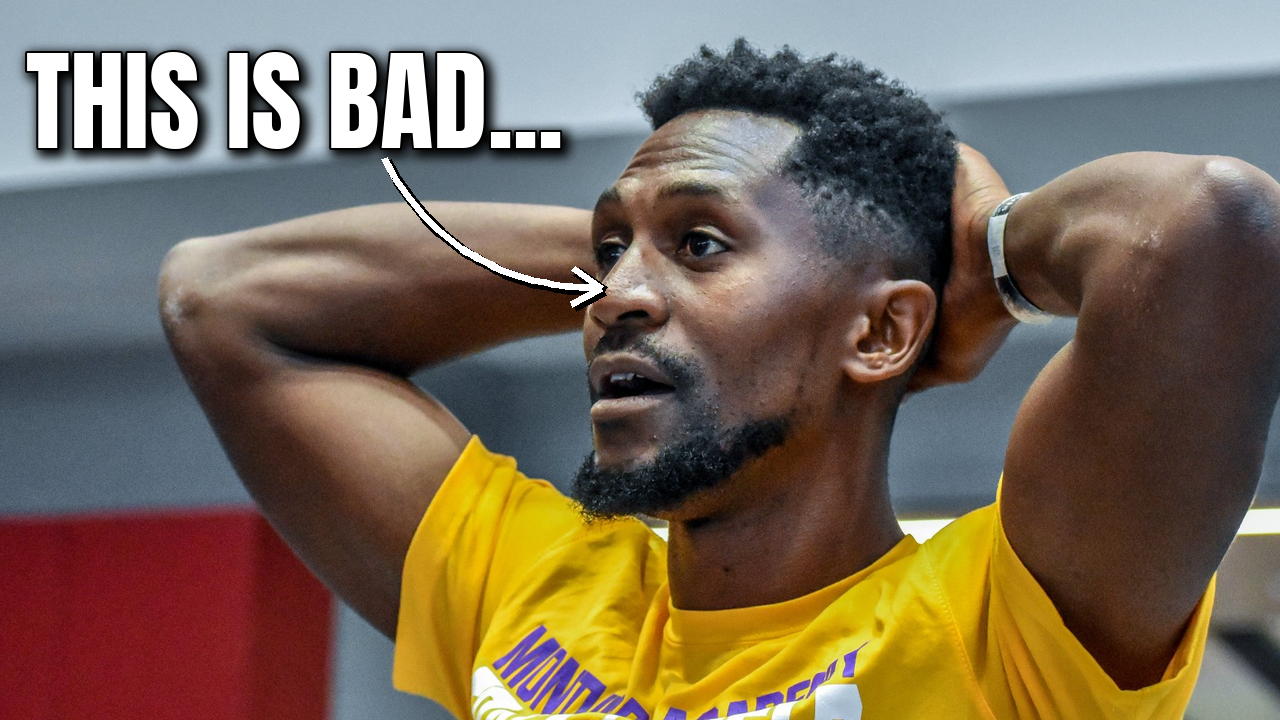
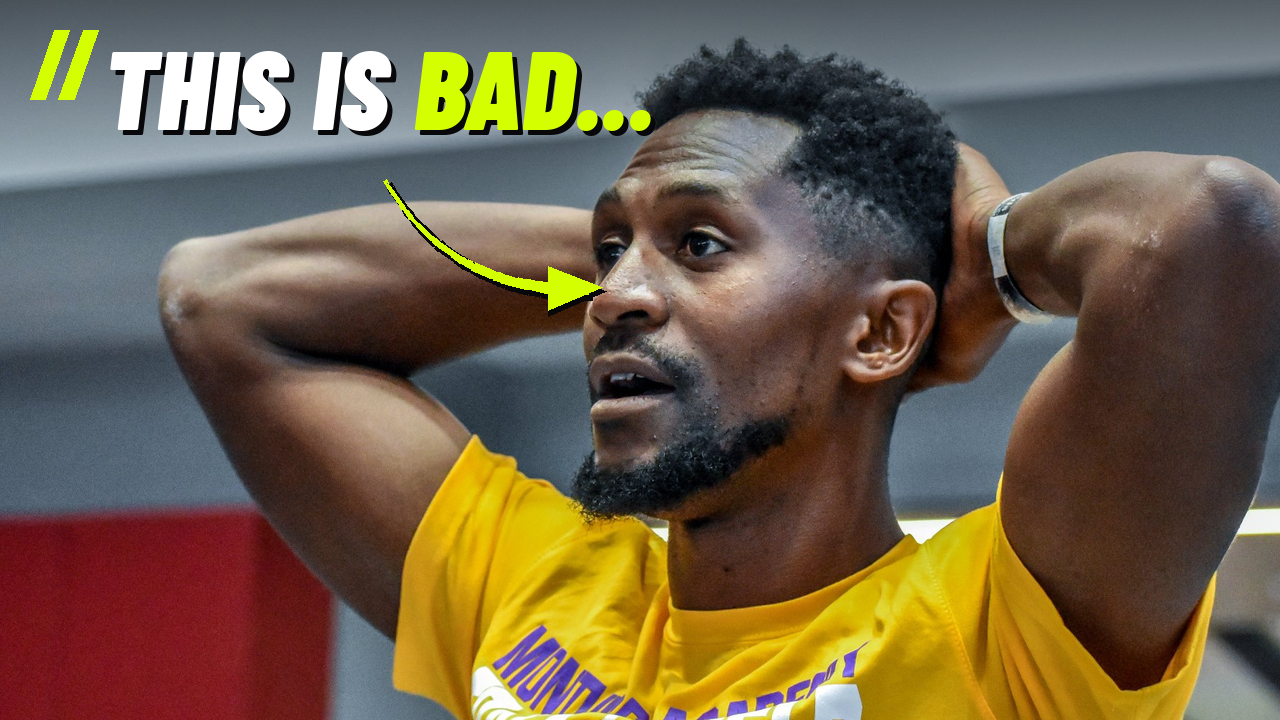
Add signature formats: creator structures with a unique house look; apply to video 002
Claude-Session: https://claude.ai/code/session_01FEcSZvJcptNLFfLb8uX2uA

Changed region(s): [[0.0, 0.0, 1.0, 0.4278]]

diff --git a/tools/signature_formats.py b/tools/signature_formats.py
@@ -1,0 +1,230 @@
+#!/usr/bin/env python3
+"""
+YOUR signature formats. Same proven structure as the benchmark creators, but your own look.
+
+Shared signature across all three (so viewers recognise you):
+  * Barlow Condensed Black Italic (slanted) for all big text, never Impact/Anton
+  * a hard, sharp black offset shadow (no blurry glow)
+  * ONE accent colour (lane lime), used only for the key word / pointer / marks
+  * a small lime "//" mark
+
+  situation  (structure from TRP)        short text top-left + one tapered lime arrow
+  statement  (structure from Final Leg)  huge stacked text beside the person, last word lime
+  report     (structure from Jumpman)    black news-caption boxes with a lime edge + "REPORTED" tag
+
+Text: "|" = new line, *word* = lime key word.
+Photos are only cropped/resized; faces pixelated only if you pass --hide.
+
+  python tools/signature_formats.py situation --photo p.jpg --text "THIS IS *BAD...*" --arrow 0.30,0.22,0.47,0.40
+  python tools/signature_formats.py statement --photo p.jpg --text "WHO'S|TO *BLAME?*" --side left
+  python tools/signature_formats.py report --photo p.jpg --headline "Coach accused of ..." --caption "Two athletes suspended."
+"""
+import argparse
+import math
+import os
+import re
+
+from PIL import Image, ImageDraw, ImageFont
+
+from make_thumbnail import load_cover
+
+HERE = os.path.dirname(os.path.abspath(__file__))
+SLANTED = os.path.join(HERE, "fonts", "BarlowCondensed-BlackItalic.ttf")
+UI = os.path.join(HERE, "fonts", "BarlowCondensed-Bold.ttf")
+SANS = "/usr/share/fonts/truetype/liberation/LiberationSans-Bold.ttf"
+if not os.path.exists(SANS):
+    SANS = UI
+W, H = 1280, 720
+WHITE, INK = (255, 255, 255), (8, 8, 10)
+LIME = (212, 255, 0)
+
+
+def words_of(line):
+    out = []
+    for tok in re.findall(r"\*[^*]+\*|\S+", line):
+        if tok.startswith("*") and tok.endswith("*"):
+            out += [(w, True) for w in tok[1:-1].split()]
+        else:
+            out.append((tok, False))
+    return out
+
+
+def plain(line):
+    return line.replace("*", "")
+
+
+def draw_line(canvas, x, y, line, font, accent, shadow):
+    d = ImageDraw.Draw(canvas)
+    space = int(font.size * 0.2)
+    for w, hl in words_of(line):
+        b = font.getbbox(w)
+        d.text((x - b[0] + shadow, y + shadow), w, font=font, fill=INK)
+        d.text((x - b[0], y), w, font=font, fill=accent if hl else WHITE)
+        x += (b[2] - b[0]) + space
+    return x
+
+
+def line_width(line, font):
+    space = int(font.size * 0.2)
+    ws = words_of(line)
+    return sum(font.getbbox(w)[2] - font.getbbox(w)[0] for w, _ in ws) + space * (len(ws) - 1)
+
+
+def fit_lines(lines, max_w, max_h, start=320, lh_ratio=0.98):
+    size = start
+    while size > 40:
+        f = ImageFont.truetype(SLANTED, size)
+        if max(line_width(l, f) for l in lines) <= max_w and int(size * lh_ratio) * len(lines) <= max_h:
+            return f
+        size -= 3
+    return ImageFont.truetype(SLANTED, 40)
+
+
+def slash_mark(canvas, x, y, size, accent):
+    """Signature '//' mark."""
+    d = ImageDraw.Draw(canvas)
+    w = size * 0.22
+    for k in range(2):
+        ox = x + k * size * 0.42
+        d.polygon([(ox + size * 0.35, y), (ox + size * 0.35 + w, y), (ox + w, y + size), (ox, y + size)],
+                  fill=accent)
+
+
+def tapered_arrow(canvas, x0, y0, x1, y1, accent, bend=0.3):
+    """Lime arrow that thickens toward the head: your take on the pointer."""
+    d = ImageDraw.Draw(canvas)
+    mx, my = (x0 + x1) / 2, (y0 + y1) / 2
+    cx, cy = mx - (y1 - y0) * bend, my + (x1 - x0) * bend
+    pts = [((1 - t) ** 2 * x0 + 2 * (1 - t) * t * cx + t ** 2 * x1,
+            (1 - t) ** 2 * y0 + 2 * (1 - t) * t * cy + t ** 2 * y1) for t in [i / 60 for i in range(61)]]
+    for col, extra, off in ((INK, 4, 4), (accent, 0, 0)):
+        for i in range(len(pts) - 1):
+            wdt = int(4 + 10 * (i / len(pts)) + extra)
+            d.line([(pts[i][0] + off, pts[i][1] + off), (pts[i + 1][0] + off, pts[i + 1][1] + off)],
+                   fill=col, width=wdt)
+        ex, ey = pts[-1]
+        px, py = pts[-8]
+        a = math.atan2(ey - py, ex - px)
+        L, spread = 46 + extra, 0.5
+        tip = (ex + 14 * math.cos(a) + off, ey + 14 * math.sin(a) + off)
+        d.polygon([tip,
+                   (ex - L * math.cos(a - spread) + off, ey - L * math.sin(a - spread) + off),
+                   (ex - L * math.cos(a + spread) + off, ey - L * math.sin(a + spread) + off)], fill=col)
+
+
+def side_shade(canvas, side, strength=0.8, reach=0.6):
+    grad = Image.new("L", (W, H), 0)
+    gd = ImageDraw.Draw(grad)
+    for i in range(int(W * reach)):
+        t = 1 - i / (W * reach)
+        x = i if side == "left" else W - 1 - i
+        gd.line([(x, 0), (x, H)], fill=int(255 * strength * t ** 1.3))
+    return Image.composite(Image.new("RGB", (W, H), INK), canvas, grad)
+
+
+def top_shade(canvas, strength=0.6, reach=0.4):
+    grad = Image.new("L", (W, H), 0)
+    gd = ImageDraw.Draw(grad)
+    for y in range(int(H * reach)):
+        gd.line([(0, y), (W, y)], fill=int(255 * strength * (1 - y / (H * reach)) ** 1.3))
+    return Image.composite(Image.new("RGB", (W, H), INK), canvas, grad)
+
+
+def build(o):
+    focus = tuple(float(v) for v in o.focus.split(","))
+    canvas = load_cover(o.photo, W, H, focus, o.hide, "pixel", o.zoom)
+
+    if o.style == "situation":
+        canvas = top_shade(canvas, 0.55, 0.35)
+        lines = o.text.split("|")
+        f = fit_lines(lines, W * o.text_width, H * 0.30, start=130)
+        shadow = max(4, f.size // 22)
+        slash_mark(canvas, 30, 30, int(f.size * 0.62), LIME)
+        x0 = 30 + int(f.size * 0.62 * 0.8) + 18
+        y = 18
+        for ln in lines:
+            draw_line(canvas, x0, y, ln, f, LIME, shadow)
+            y += int(f.size * 0.98)
+        if o.arrow:
+            a = [float(v) for v in o.arrow.split(",")]
+            tapered_arrow(canvas, a[0] * W, a[1] * H, a[2] * W, a[3] * H, LIME, o.bend)
+
+    elif o.style == "statement":
+        canvas = side_shade(canvas, o.side, 0.85, 0.6)
+        lines = o.text.split("|")
+        f = fit_lines(lines, W * o.text_width, H * 0.80)
+        lh = int(f.size * 0.98)
+        shadow = max(5, f.size // 20)
+        total = lh * len(lines)
+        y = (H - total) / 2 + 20
+        mark = int(f.size * 0.28)
+        mx = 36 if o.side == "left" else W - 36 - mark
+        slash_mark(canvas, mx, y - mark - 10, mark, LIME)
+        for i, ln in enumerate(lines):
+            if i == len(lines) - 1 and "*" not in o.text:
+                ln = "*" + ln + "*"
+            w = line_width(ln, f)
+            x = 30 if o.side == "left" else W - 30 - w
+            draw_line(canvas, x, y, ln, f, LIME, shadow)
+            y += lh
+
+    elif o.style == "report":
+        d = ImageDraw.Draw(canvas)
+
+        def box(text, x, y, size, max_w, right=False):
+            size_ = size
+            while size_ > 18:
+                f = ImageFont.truetype(SANS, size_)
+                b = f.getbbox(text)
+                if b[2] - b[0] <= max_w:
+                    break
+                size_ -= 2
+            b = f.getbbox(text)
+            pad = int(f.size * 0.38)
+            bw, bh = (b[2] - b[0]) + pad * 2 + 12, (b[3] - b[1]) + pad * 2
+            if right:
+                x = W - bw - x
+            d.rectangle((x + 5, y + 5, x + bw + 5, y + bh + 5), fill=(0, 0, 0))
+            d.rectangle((x, y, x + bw, y + bh), fill=INK)
+            d.rectangle((x, y, x + 12, y + bh), fill=LIME)
+            d.text((x + 12 + pad - b[0], y + pad - b[1]), text, font=f, fill=WHITE)
+            return x, y, bw, bh
+
+        if o.headline:
+            hx, hy, hw, hh = box(o.headline, 24, 70, 46, W * 0.66)
+            # "REPORTED" tag above the headline
+            tf = ImageFont.truetype(UI, 30)
+            tb = tf.getbbox(o.tag.upper())
+            d.rectangle((hx, hy - 44, hx + (tb[2] - tb[0]) + 30, hy - 4), fill=LIME)
+            d.text((hx + 15 - tb[0], hy - 24 - (tb[1] + tb[3]) / 2), o.tag.upper(), font=tf, fill=INK)
+        if o.caption:
+            box(o.caption, 30, H - 120, 46, W * 0.7, right=True)
+    return canvas
+
+
+def main():
+    p = argparse.ArgumentParser(description=__doc__, formatter_class=argparse.RawDescriptionHelpFormatter)
+    p.add_argument("style", choices=["situation", "statement", "report"])
+    p.add_argument("--photo", required=True)
+    p.add_argument("--focus", default="0.5,0.4")
+    p.add_argument("--zoom", type=float, default=1.0)
+    p.add_argument("--hide", action="append", help="pixelate a face: cx,cy,rx,ry (fractions of original)")
+    p.add_argument("--text", default="")
+    p.add_argument("--text-width", type=float, default=0.5)
+    p.add_argument("--arrow", help="situation: x0,y0,x1,y1 fractions, tail to head")
+    p.add_argument("--bend", type=float, default=0.3)
+    p.add_argument("--side", default="left", choices=["left", "right"])
+    p.add_argument("--headline")
+    p.add_argument("--caption")
+    p.add_argument("--tag", default="REPORTED")
+    p.add_argument("--out", default="thumbnail.png")
+    o = p.parse_args()
+    img = build(o)
+    img.save(o.out, optimize=True)
+    root, ext = os.path.splitext(o.out)
+    img.resize((320, 180), Image.LANCZOS).save(f"{root}.mobile{ext}")
+    print("saved", o.out)
+
+
+if __name__ == "__main__":
+    main()

diff --git a/videos/002-coach-ped-suspensions/PACKAGE.md b/videos/002-coach-ped-suspensions/PACKAGE.md
@@ -1,6 +1,23 @@
 # 002: High school coach allegedly gave athletes PEDs, two athletes suspended
 
-## ✅ Current versions: modelled directly on your benchmark creators' top drama/doping videos
+## ✅ Current versions: YOUR signature formats
+Same proven structure as your benchmark creators, with your own look: slanted Barlow font, hard
+shadow, lime key word, lime "//" mark, tapered lime arrow, black/lime news captions.
+
+| File | Structure borrowed from | Pair with title |
+|---|---|---|
+| `sig-situation.png` (**FINAL**) | TRP | **This High School PED Situation Is Crazy** |
+| `sig-report.png` (A/B partner) | Jumpman | **What This High School PED Scandal Exposed About Youth Track** |
+| `sig-statement.png` | The Final Leg | **Is The Coach Really To Blame for This PED Scandal?** |
+
+```bash
+T=../../tools/signature_formats.py
+python $T situation --photo photos/coach.jpg --zoom 1.15 --focus 0.40,0.36 --text "THIS IS *BAD...*" --text-width 0.44 --arrow 0.30,0.25,0.46,0.40 --out sig-situation.png
+python $T statement --photo photos/coach.jpg --zoom 1.25 --focus 0.30,0.38 --text "WHO'S|TO|BLAME?" --side left --text-width 0.45 --out sig-statement.png
+python $T report --photo photos/coach.jpg --zoom 1.1 --focus 0.45,0.4 --headline "HS coach accused of giving athletes PEDs" --caption "Two of his athletes suspended" --out sig-report.png
+```
+
+## Reference only: straight creator-format copies (don't publish these)
 Plain real photo + plain white text, with no colour bars, cards or graphics. That's what their
 best-performing thumbnails actually look like.
 

diff --git a/STYLE.md b/STYLE.md
@@ -1,8 +1,17 @@
 # Thumbnail styles
 
-**For drama / controversy / doping videos, use `tools/creator_formats.py`** (TRP, Final Leg
-and Jumpman formats). Your benchmark creators' best drama thumbnails are plain photos +
-plain white text. See `videos/002-coach-ped-suspensions/`.
+**Default: `tools/signature_formats.py`.** Your three signature formats take the proven
+structure from your benchmark creators and give it your own look:
+
+| Format | Structure from | Use for |
+|---|---|---|
+| `situation` | TRP | breaking drama: 2–4 words top-left, key word lime, tapered lime arrow |
+| `statement` | The Final Leg | your take/opinion: huge stacked slanted text beside the person, last word lime |
+| `report` | Jumpman | allegations / news: black captions with lime edge + "REPORTED" tag |
+
+Shared signature: Barlow Condensed Black Italic, hard (not blurry) shadow, ONE accent
+colour (lane lime), the lime "//" mark. Plain real photo, no clutter.
+`tools/creator_formats.py` makes straight copies of their formats, for study only.
 
 The "Photo Finish" house style below is for analysis, record and rivalry videos.
 
